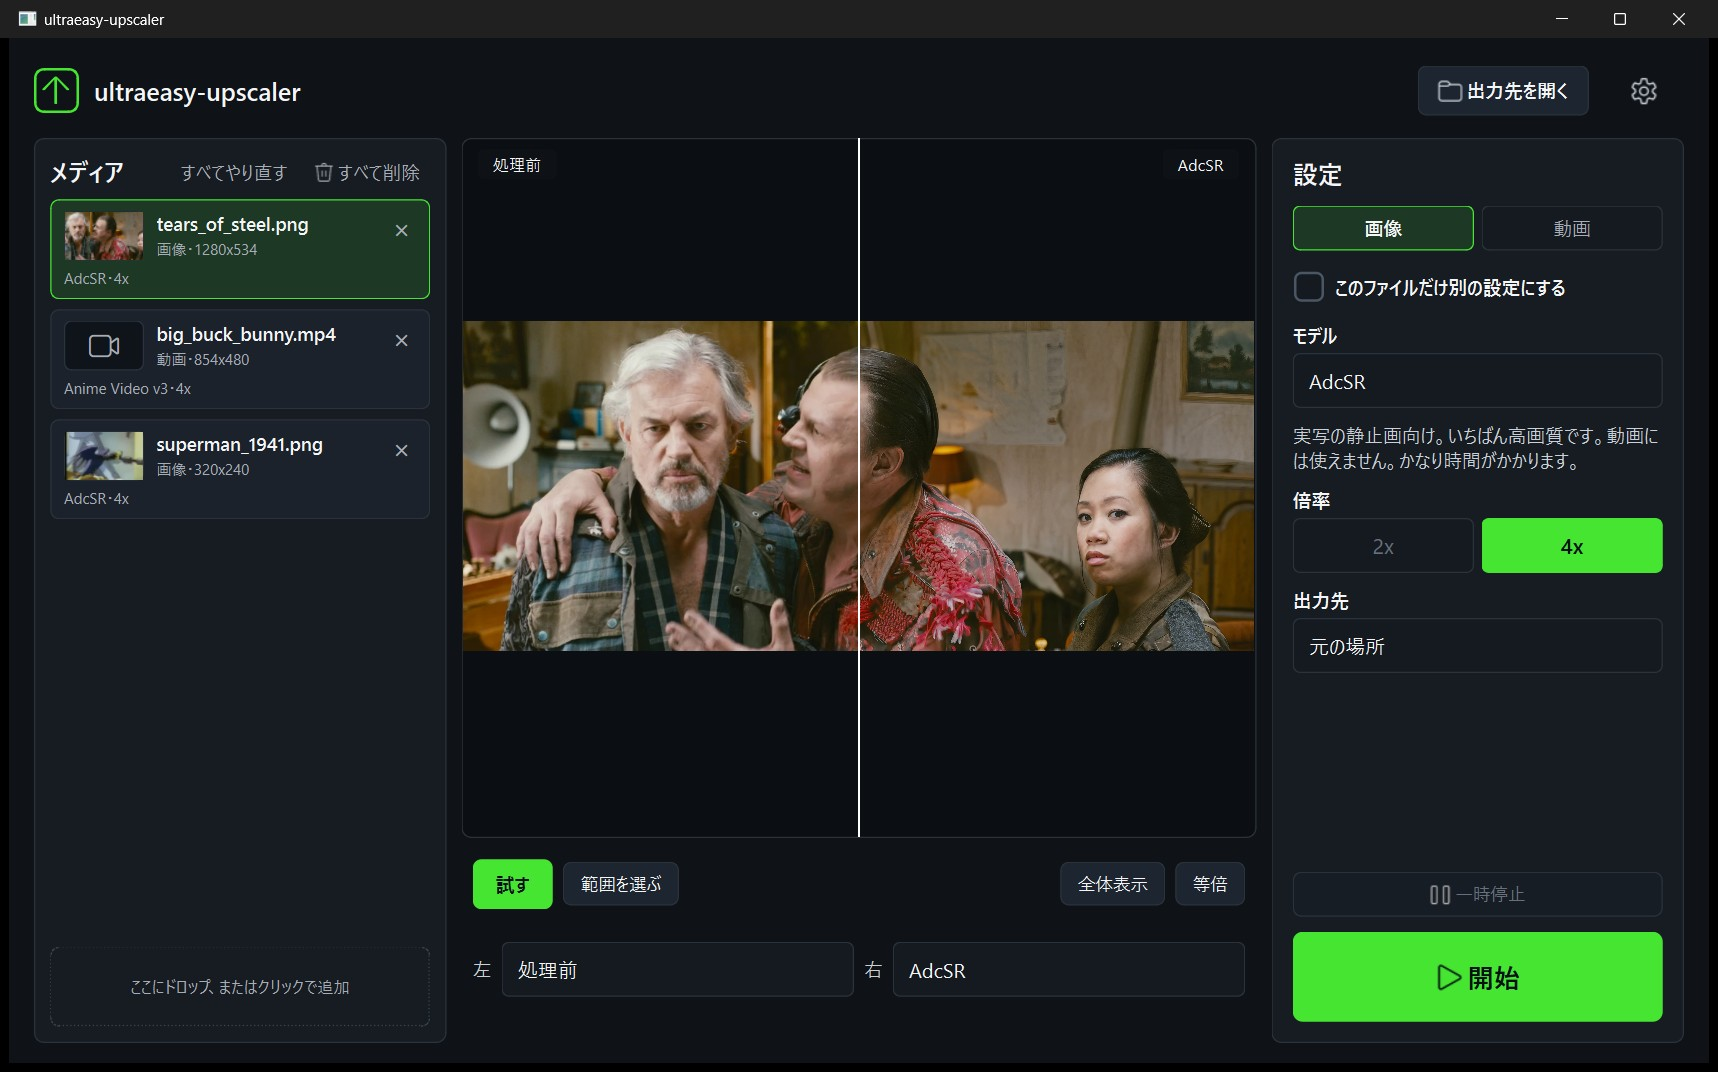
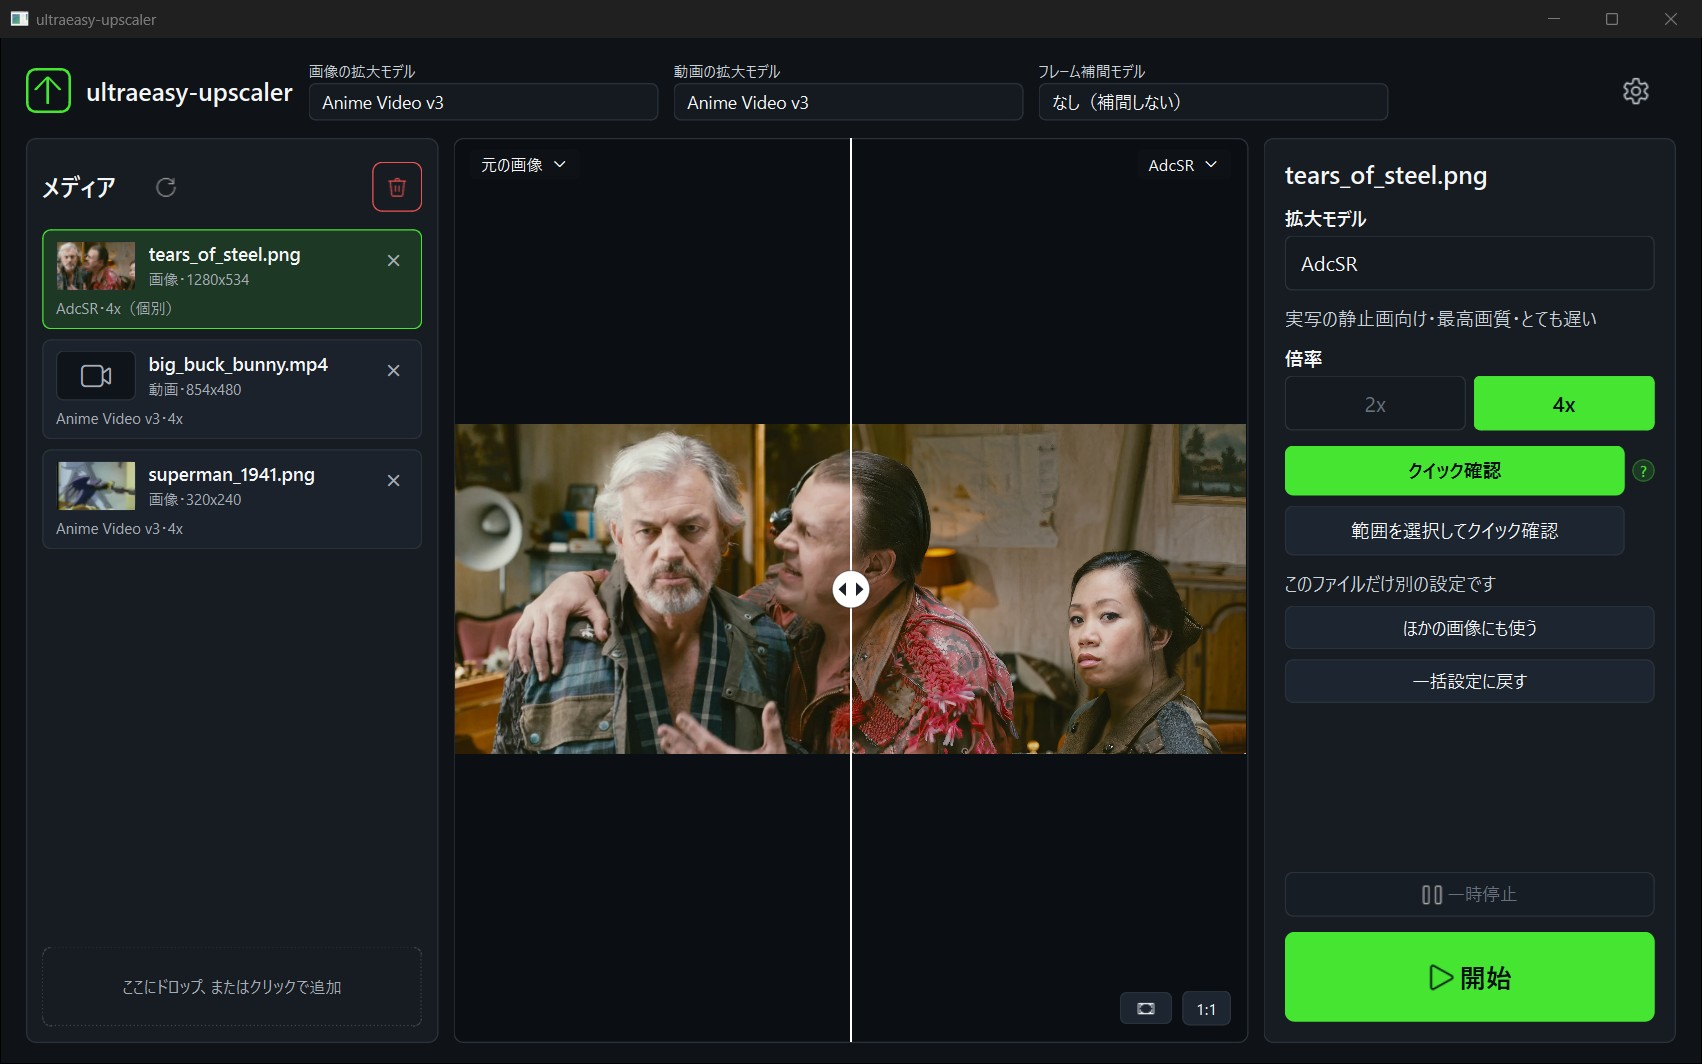
docs: README・技術文書・写真を今の画面と機能に合わせる
- ヘッダーでのモデル選択、クイック確認、フレーム補間（RIFE / FILM）、追加キット、コマンドラインを書く
- 画面写真を撮り直す（日本語・英語）
- 配布物の「はじめに」を今の画面の言葉に合わせる
- 追加キットの大きさを実際の zip に合わせる

diff --git a/tests/test_cli.py b/tests/test_cli.py
@@ -536,3 +536,36 @@ def test_frozen_cli_resolves_next_to_cli_exe(monkeypatch, tmp_path):
     monkeypatch.setattr(sys, "executable", str(exe))
     assert settings._app_root() == tmp_path.resolve()
     assert binaries.repo_root() == tmp_path.resolve()
+
+
+def test_run_rejects_model_that_is_not_installed(monkeypatch, tmp_path, capsys):
+    """一覧にあっても資材が無いモデルは、処理の前に kit_missing で止める。"""
+    from app import cli
+
+    src = _make_png(tmp_path / "a.png")
+    monkeypatch.setattr(cli, "_model_available", lambda backend, key: False)
+    code, out, _err = _run(
+        ["run", str(src), "--model", "AdcSR", "--dry-run", "--json"], capsys)
+    assert code == 2
+    error = _json_out(out)["error"]
+    assert error["code"] == "kit_missing"
+    assert "models --json" in error["fix"]
+
+
+def test_run_result_has_source_and_null_scale_without_model(
+        monkeypatch, tmp_path, capsys):
+    """結果だけで 4 倍になったかを確かめられる。拡大しないときの scale は null。"""
+    _fail_copy_upscale(monkeypatch)
+    src = _make_png(tmp_path / "a.png", size=(64, 48))
+    code, out, _err = _run(["run", str(src), "--dry-run", "--json"], capsys)
+    assert code == 0
+    result = _json_out(out)["results"][0]
+    assert result["source"] == {"width": 64, "height": 48}
+    assert result["settings"]["scale"] == 4
+
+    code, out, _err = _run(
+        ["run", str(src), "--model", "none", "--dry-run", "--json"], capsys)
+    # 画像で拡大も補間もしない指定の扱いは既存の検証に任せ、scale の表記だけを見る
+    payload = _json_out(out)
+    if payload.get("results"):
+        assert payload["results"][0]["settings"]["scale"] is None

diff --git a/app/core/addon_kits.py b/app/core/addon_kits.py
@@ -25,7 +25,7 @@ class AddonKit:
 
     key: str
     name_key: str
-    size: str  # 訳さない（"185 MB" など）
+    size: str  # 訳さない（"178 MB" など）
     filename: str  # ダウンロードする zip 名
     installed: bool
 
@@ -67,7 +67,7 @@ def addon_kits() -> list[AddonKit]:
         AddonKit(
             key="film",
             name_key=N_("FILM (Style)"),
-            size="185 MB",
+            size="178 MB",
             filename="ultraeasy-upscaler-film-kit.zip",
             installed=film_kit_installed(),
         ),
@@ -81,7 +81,7 @@ def addon_kits() -> list[AddonKit]:
         AddonKit(
             key="adcsr_gpu",
             name_key=N_("AdcSR（GPU 用）"),
-            size="1.8 GB",
+            size="1.7 GB",
             filename="ultraeasy-upscaler-adcsr-kit.zip",
             installed=adcsr_gpu_installed(),
         ),

diff --git a/tests/test_film.py b/tests/test_film.py
@@ -449,11 +449,11 @@ def _canned_kits(installed: dict[str, bool]):
     from app.core.addon_kits import AddonKit
 
     return [
-        AddonKit("film", "FILM (Style)", "185 MB",
+        AddonKit("film", "FILM (Style)", "178 MB",
                  "ultraeasy-upscaler-film-kit.zip", installed["film"]),
         AddonKit("npu", "NPU キット", "56 MB",
                  "ultraeasy-upscaler-npu-kit.zip", installed["npu"]),
-        AddonKit("adcsr_gpu", "AdcSR（GPU 用）", "1.8 GB",
+        AddonKit("adcsr_gpu", "AdcSR（GPU 用）", "1.7 GB",
                  "ultraeasy-upscaler-adcsr-kit.zip", installed["adcsr_gpu"]),
         AddonKit("adcsr_npu", "AdcSR（NPU 用）", "1.7 GB",
                  "ultraeasy-upscaler-npu-kit-adcsr.zip", installed["adcsr_npu"]),

diff --git a/README.en.md b/README.en.md
@@ -3,15 +3,15 @@
 [日本語](README.md) [![agent-friendly](docs/images/agent-friendly.svg)](AGENTS.md)
 
 **[⬇ Download ultraeasy-upscaler v0.11.0](https://github.com/tomhda/ultraeasy-upscaler/releases/download/v0.11.0/ultraeasy-upscaler-portable-win64.zip)**
-(zip for Windows x64, 376 MB). See [Install](#install) for the steps.
+(zip for Windows x64, 382 MB). See [Install](#install) for the steps.
 
 ultraeasy-upscaler is a Windows app that upscales images and videos, and interpolates video frames, with a few clicks.
 Everything runs on your own PC. It collects no data, shows no ads, and is open source.
-It supports up to five super-resolution models, including Real-ESRGAN, and the RIFE v4.6 frame interpolation model.
+It supports up to five super-resolution models, including Real-ESRGAN, and the frame interpolation models RIFE v4.6 and FILM (Style).
 You can drop in many files and process them in one go. It runs on a GPU, and on the NPU of some PCs.
 You can compare the results of several models side by side, and for a video you can process one chosen frame first to check the result.
 
-![A photo tried with AdcSR, shown at 100% with the original on the left and the result on the right](docs/images/compare-zoom-en.jpg)
+![A photo after a quick check with AdcSR, shown at 100% with the original on the left and the result on the right](docs/images/compare-zoom-en.jpg)
 
 ## What it does
 
@@ -23,15 +23,18 @@ You can compare the results of several models side by side, and for a video you 
 - Runs on a DirectX 12 GPU. On AMD Ryzen AI PCs it can also run on the NPU once you add the NPU kit.
 
 - Makes videos smoother with a frame interpolation model, on its own or together with upscaling.
-- Frame interpolation model: RIFE v4.6
+- Frame interpolation models: RIFE v4.6, FILM (Style)\*
+
+- Runs from the command line without opening the window, and returns its results as JSON ([Command line](#command-line)).
 
 \* Real-ESRGAN (AMD compact) has a research-only license.
 \* AdcSR is for still images only and is a separate download.
+\* FILM (Style) is a separate download.
 
 ## Screenshots
 
-▼ The main window. The media list is on the left, the preview is in the middle, and the settings are on the right.
-The preview shows a photo after it was tried with AdcSR: the original is left of the divider and the result is right of it.
+▼ The main window. The models for all files are chosen at the top. The media list is on the left, the preview is in the middle, and the settings of the selected file are on the right.
+The preview shows a photo after a quick check with AdcSR: the original is left of the divider and the result is right of it.
 
 ![The main window](docs/images/main-en.jpg)
 
@@ -62,31 +65,41 @@ To uninstall, delete the extracted folder.
 
 ### Choose a model
 
-- Under **Image** and **Video** on the right, choose the model to use for each kind of media.
-- Select a file in the list and turn on **Use different settings for this file** to process only that file with another model.
+- **Image model**, **Video model**, and **Frame interpolation model** at the top choose the models used for all files.
+- Select a file in the list to see its settings on the right. A change made there applies to that file only (its row shows **(custom)**).
+- **Use for other videos too** (or **Use for other images too**) applies a file's own settings to all files, and **Use the settings at the top** removes them.
 - See [Choosing a model](#choosing-a-model) for which one to pick.
 
-### Try
+### Quick check
 
-- **Try** in the middle (**Try this frame** for a video) enlarges just that frame in the same way as the full run and shows it next to the original.
-- For a video, the slider under the preview chooses the frame to try. It starts at the 2-second mark.
-- **Select area** processes only part of the picture, so you can compare quickly.
-- Change the model and try again to add another result. **Left** and **Right** choose what to compare: the original, or the result of any model you have tried.
+- **Quick check** on the right enlarges just that one image in the same way as the full run and shows it next to the original.
+- For a video, the slider under the preview chooses the frame to check. It starts at the 2-second mark.
+- **Quick check on a selected area** processes only the part you drag over, so it finishes sooner.
+- Change the model and check again to add another result. The labels at the top left and top right of the picture choose what to compare: the original, or the result of any model you have checked.
+- Drag the handle in the middle of the divider to move it. The buttons at the bottom right switch between fitting the picture and 100%.
 
 ### Start
 
-- **Start** processes the waiting files from the top. The output is saved in an `upscaled` folder next to the original file. (You can change this with **Output** and in the settings.)
+- **Start** processes the waiting files from the top. The output is saved in an `upscaled` folder next to the original file. (You can change this with **Output** in the settings.)
 - **Pause** stops after the file being processed is finished.
 - **×** on a row cancels that file right away.
 - If a file with the same name already exists, the new file gets a number such as `(1)`.
+- The folder button on a finished row opens the folder the file was saved in.
 
 ### Redo
 
-- The round arrow on a finished row, or **Redo all**, puts files back to waiting.
+- The round arrow on a finished row, or the round arrow above the list (Redo all), puts files back to waiting.
+
+### Frame interpolation
+
+- Choosing a **Frame interpolation model** doubles the frame rate of a video. It works together with upscaling or on its own.
+- RIFE v4.6 is fast; FILM (Style) is slow and higher quality. Doubling a 3-second 854×480 video (72 frames) on a Radeon 860M took about 3 seconds with RIFE v4.6 and about 85 seconds with FILM (Style).
+- Turning on **Choose the interpolation rate in detail** in the settings adds 4 times, 8 times, 60 fps, and 120 fps. FILM (Style) supports only 2, 4, or 8 times the source.
+- FILM (Style) needs an [add-on kit](#add-on-kits).
 
 ### More settings
 
-- The gear at the top right opens settings for where the AI runs, the file format, video quality, the output folder name, the frame rate after interpolation, the display language, and more.
+- The gear at the top right opens settings for where the AI runs, the file format, video quality, the output location, the output folder name, the display language, and more. It also shows which add-on kits are installed.
 - The interface is available in English and Japanese. It starts in the Windows display language, and you can change it under **Display language** (the change takes effect the next time the app starts).
 
 ## Choosing a model
@@ -99,11 +112,9 @@ Times are for enlarging one 854×480 image 4× on a Radeon 860M (the integrated 
 | 4xNomosUni SPAN | Live action | 0.51 s | Keeps the original texture and grain. Its correction is mild, the original look remains, and it suits clean material |
 | Real-ESRGAN (AMD compact) | Live action | 2.78 s | Brings out edges and individual hairs. Looks more processed. Research-only license |
 | SwinIR-M | Live-action stills | 59 s | A transformer model. Takes its time and restores fine detail |
-| AdcSR | Live-action stills | 108 s | A generative model that adds texture. It is very heavy and adds a lot, so it is for still images only. Not included in the app; download it separately (below) |
+| AdcSR | Live-action stills | 108 s | A generative model that adds texture. It is very heavy and adds a lot, so it is for still images only. Not included in the app; it needs an [add-on kit](#add-on-kits) |
 
 - If you are unsure, start with Anime Video v3 for anime and CG, and 4xNomosUni SPAN for live action.
-- To use AdcSR, download [`models-adcsr-gpu-fp32.zip` from v0.9.1](https://github.com/tomhda/ultraeasy-upscaler/releases/tag/v0.9.1) (about 1.8 GB)
-  and extract it into the `models\ai` folder inside the folder that contains `ultraeasy-upscaler.exe`. See the NOTICE file in the zip for the terms of use.
 - Setting **Run on** to Vulkan in the settings switches to a different engine (realesrgan-ncnn-vulkan). The model list changes to five Real-ESRGAN models, and Anime Video v3 can also enlarge 2×. If processing on the GPU cannot start, the app switches to this engine automatically.
 
 ### Quality comparison
@@ -131,6 +142,26 @@ Live action: Tears of Steel (720p)
 - SwinIR-M: tightens fine detail without breaking edges. Takes longer than 4xNomosUni SPAN.
 - AdcSR: the AI draws in skin wrinkles, hair, and the weave of cloth. The most detailed on live action. On cel animation it also draws the roughness of the source as texture, so it is not suited to it.
 
+## Add-on kits
+
+Models that are not included in the app are separate downloads.
+
+| Kit | Adds | File |
+|---|---|---|
+| FILM (Style) | The frame interpolation model FILM (Style) | [`ultraeasy-upscaler-film-kit.zip`](https://github.com/tomhda/ultraeasy-upscaler/releases/download/v0.11.0/ultraeasy-upscaler-film-kit.zip) (178 MB) |
+| AdcSR (for GPU) | The upscaling model AdcSR on the GPU | [`ultraeasy-upscaler-adcsr-kit.zip`](https://github.com/tomhda/ultraeasy-upscaler/releases/download/v0.11.0/ultraeasy-upscaler-adcsr-kit.zip) (1.7 GB) |
+| NPU kit | Processing on the NPU (below) | [`ultraeasy-upscaler-npu-kit.zip`](https://github.com/tomhda/ultraeasy-upscaler/releases/download/v0.11.0/ultraeasy-upscaler-npu-kit.zip) (56 MB) |
+| AdcSR (for NPU) | The upscaling model AdcSR on the NPU | [`ultraeasy-upscaler-npu-kit-adcsr.zip`](https://github.com/tomhda/ultraeasy-upscaler/releases/download/v0.11.0/ultraeasy-upscaler-npu-kit-adcsr.zip) (1.7 GB) |
+
+1. Close ultraeasy-upscaler and extract the contents of the zip into the folder that contains `ultraeasy-upscaler.exe`, overwriting files.
+2. Start the app. The model is now in the list.
+
+**Add-on kits** in the settings shows which kits are installed and downloads each zip. See the NOTICE file in each zip for the terms of use.
+
+▼ **Add-on kits** and **NPU setup** in the settings
+
+![Add-on kits and NPU setup](docs/images/npu-prepare-en.jpg)
+
 ## NPU kit
 
 On AMD Ryzen AI PCs, downloading an extra kit lets the app process on the NPU. The NPU becomes selectable when both of the following are in place.
@@ -145,10 +176,6 @@ Steps:
 1. Close ultraeasy-upscaler and extract the contents of the kit zip into the folder that contains `ultraeasy-upscaler.exe`, overwriting files.
 2. Start the app, select the gear, and under **NPU setup** convert the models you will use for the NPU (select **Convert for NPU** on the model's row). The NPU cannot run a model as it is, so each model needs this once. The conversion is not heavy, but it holds some memory and takes from minutes to hours.
 3. When the conversion for the NPU has finished, choose NPU under **Run on**.
-
-▼ **NPU setup**. Each model shows an estimate of how long its conversion for the NPU takes.
-
-![NPU setup](docs/images/npu-prepare-en.jpg)
 
 Time and memory needed to convert a model for the NPU (measured on a Ryzen AI 7 PRO 350):
 
@@ -167,19 +194,39 @@ After you update the NPU driver or Ryzen AI Software, the conversion for the NPU
 Technical notes on running these models on the NPU (compiler workarounds, speedups, measurements) are in a separate repository:
 [ryzen-ai-npu-super-resolution-notes](https://github.com/tomhda/ryzen-ai-npu-super-resolution-notes).
 
+## Command line
+
+`ultraeasy-upscaler-cli.exe`, in the same folder as `ultraeasy-upscaler.exe`, does the same processing without opening the window. It can print its results as JSON, so scripts and AI agents can use it.
+
+```
+ultraeasy-upscaler-cli status --json
+ultraeasy-upscaler-cli models --json
+ultraeasy-upscaler-cli run photo.png --model 4xNomosUni --out-dir out --json
+ultraeasy-upscaler-cli run clip.mp4 --model none --interpolation rife-v4.6 --json
+ultraeasy-upscaler-cli quick-check clip.mp4 --time 5 --model animevideov3 --out check.png --json
+```
+
+- The value for `--model` is the `key` that `models --json` returns (`4xNomosUni` for 4xNomosUni SPAN, `animevideov3` for Anime Video v3).
+- `run --dry-run` checks the settings and the output paths without processing.
+- It never waits for input. Existing files are not overwritten unless `--overwrite` is given.
+- Each error has a fixed name (`code`) and says what to do next (`fix`).
+
+The list of commands, how to check a result, and the side effects are in [AGENTS.md](AGENTS.md).
+
 ## Limits
 
 - The scale is 4× only. 2× is available for some models when **Run on** is set to Vulkan.
 - Video output is at most 3840×2160. Larger results are reduced to that size.
 - HDR video (PQ / HLG) can't be processed.
 - AdcSR is for still images only.
+- FILM (Style) interpolates only to 2, 4, or 8 times the source frame rate. Together with upscaling, it always interpolates first and upscales after.
 - Settings such as the model return to their defaults when the app closes.
 - The NPU can be used only on AMD Ryzen AI PCs that have Ryzen AI Software installed and the NPU kit added.
 
 ## Technical details
 
 Running from source, the requirements of each engine, measurements, environment variables, the internal structure, and how the portable build is made are in
-[docs/technical.md](docs/technical.md) (in Japanese).
+[docs/technical.md](https://github.com/tomhda/ultraeasy-upscaler/blob/main/docs/technical.md) (in Japanese).
 
 ## License
 
@@ -194,6 +241,7 @@ Running from source, the requirements of each engine, measurements, environment 
 | SwinIR-M (003_realSR_BSRGAN_DFO_s64w8_SwinIR-M_x4_GAN) | Jingyun Liang | Apache 2.0 |
 | AdcSR | Guaishou74851 (CVPR 2025) | Apache 2.0. The terms of use of Stable Diffusion 2.1-base, which it is built on (CreativeML Open RAIL++-M), also apply, so check them yourself before use |
 | RIFE v4.6 | hzwer ([Practical-RIFE](https://github.com/hzwer/Practical-RIFE)) | MIT |
+| FILM (Style) | Google Research ([FILM](https://github.com/google-research/frame-interpolation)); PyTorch port by dajes | Apache 2.0 |
 
 - The portable build bundles FFmpeg (GPL v3), Qt 6 / PySide6 (LGPL v3), realesrgan-ncnn-vulkan (MIT), rife-ncnn-vulkan (MIT), the Microsoft Windows ML runtime, and others.
   The list and where to get each one are in `THIRD-PARTY-NOTICES.en.txt` in the zip, and the full texts of the model licenses are in the `models\ai` folder.
